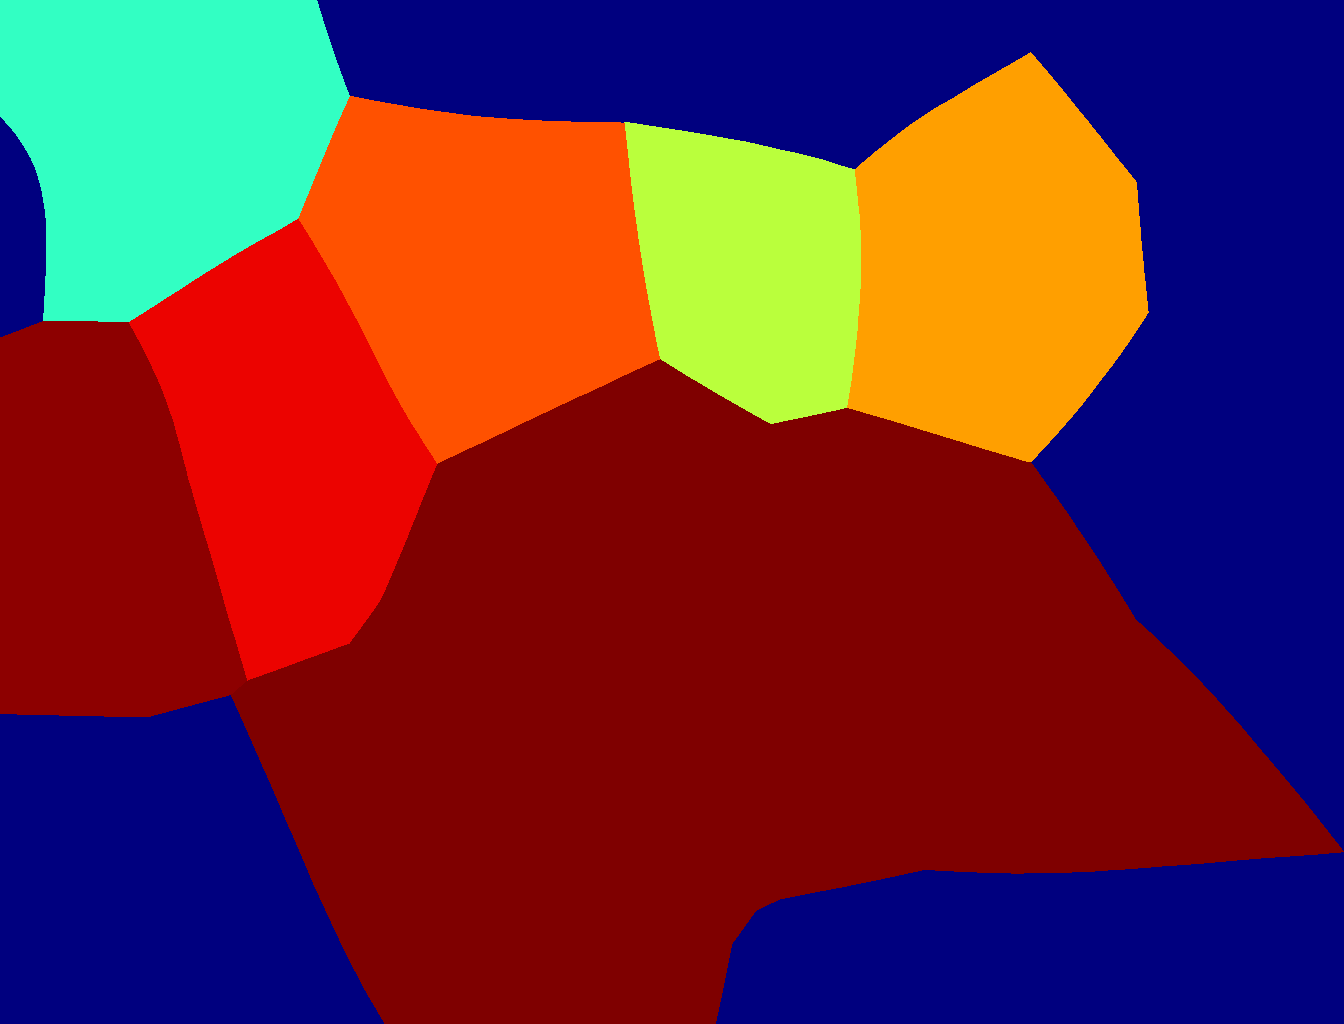
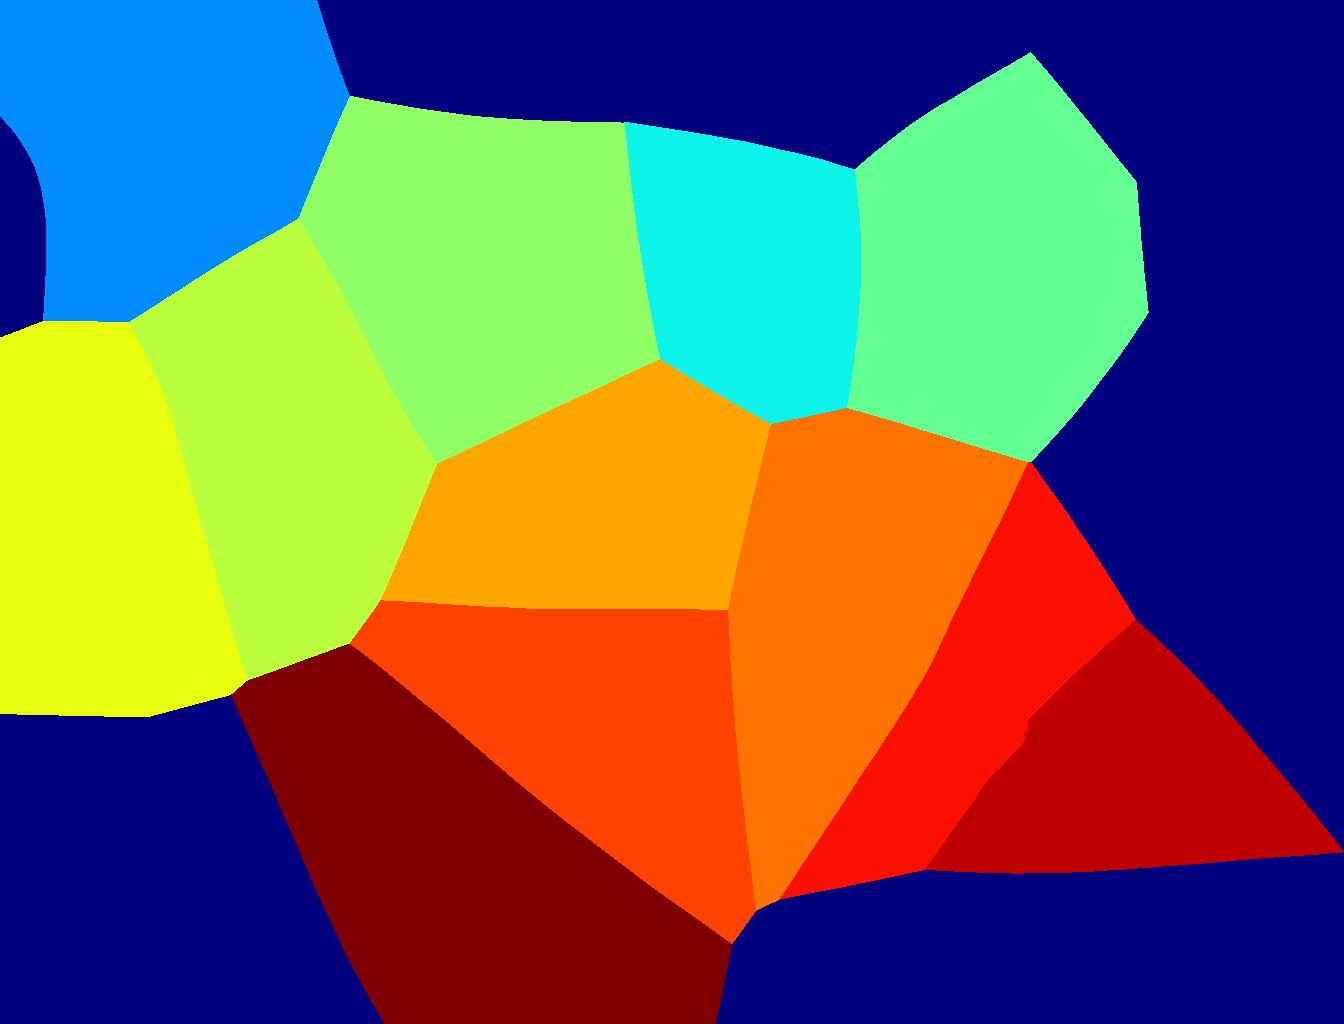
Final touches.
Redo colours on segmentation images

diff --git a/static/images/task2.py b/static/images/task2.py
@@ -4,18 +4,21 @@ import pylab
 import pymorph
 import readmagick
 from scipy import ndimage
+from pylab import cm
 import pyslic
 dna = readmagick.readimg('dna.jpeg')
 
-TESTING = True
+TESTING = False
 if TESTING:
     def savejet(img, name):
         pass
     def writeimg(img, name):
         pass
 else:
-    def savejet(img):
-        readmagick.writeimg((cm.jet(dnaf)[:,:,:3]*255).astype(np.uint8), name)
+    def savejet(img, name):
+        img = (img - img.min())/float(img.ptp())*255
+        img = img.astype(np.uint8)
+        readmagick.writeimg((cm.jet(img)[:,:,:3]*255).astype(np.uint8), name)
     writeimg = readmagick.writeimg
 
 dnaf = ndimage.gaussian_filter(dna, 8)

diff --git a/tutorial.rst b/tutorial.rst
@@ -202,6 +202,7 @@ Here's our first try:
    dnaf = ndimage.gaussian_filter(dna, 8)
    rmax = pymorph.regmax(dnaf)
    pylab.imshow(pymorph.overlay(dna, rmax))
+   pylab.show()
 
 The ``pymorph.overlay()`` returns a colour image with the grey level component being given by its first argument while overlay its second argument. The result doesn't look so good:
 
@@ -382,4 +383,5 @@ Footnotes
 
 .. [#] If you are not too familiar with Python, you might not be confortable with the *dna // 2* notation. While 4 divided by 2 is obviously 2, it is not always clear what 3 divided by 2 should be. The *integer division* answer is that it's 1 (with remainder 1), while the *floating-point division* answer is that it is 1.5. In Python, the *//* operator always gives you the integer division, while */* used to give you integer division and now gives you the floating-point one.
 
-.. [#] In practice this is not the most efficient way to do this. The same operation can be done much faster like this ``for obj in at_border: whole *= (whole != obj)``.
+.. [#] In practice this is not the most efficient way to do this. The same operation can be done much faster like this ``for obj in at_border: whole *= (whole != obj)``. Multiplying or adding boolean arrays might seem strange at first, but it's a very useful idiom.
+
